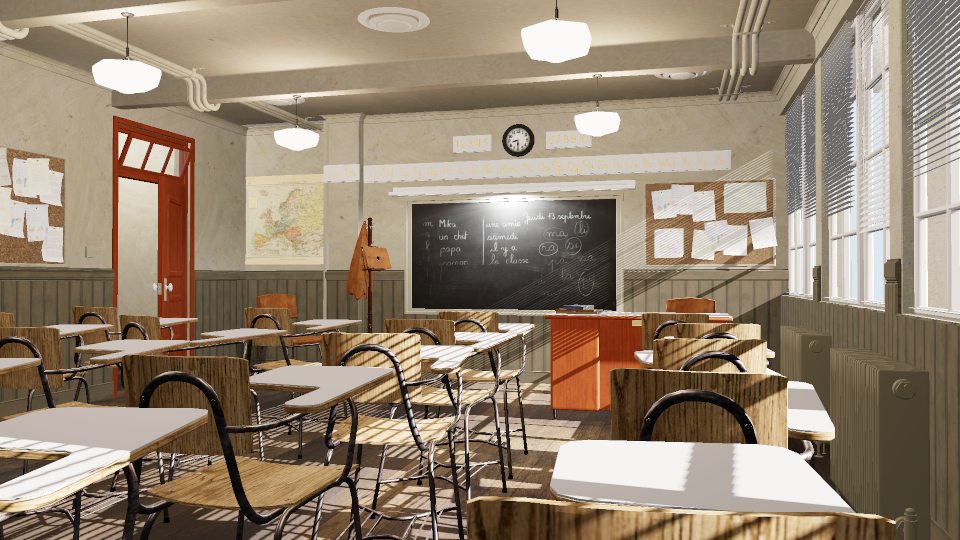
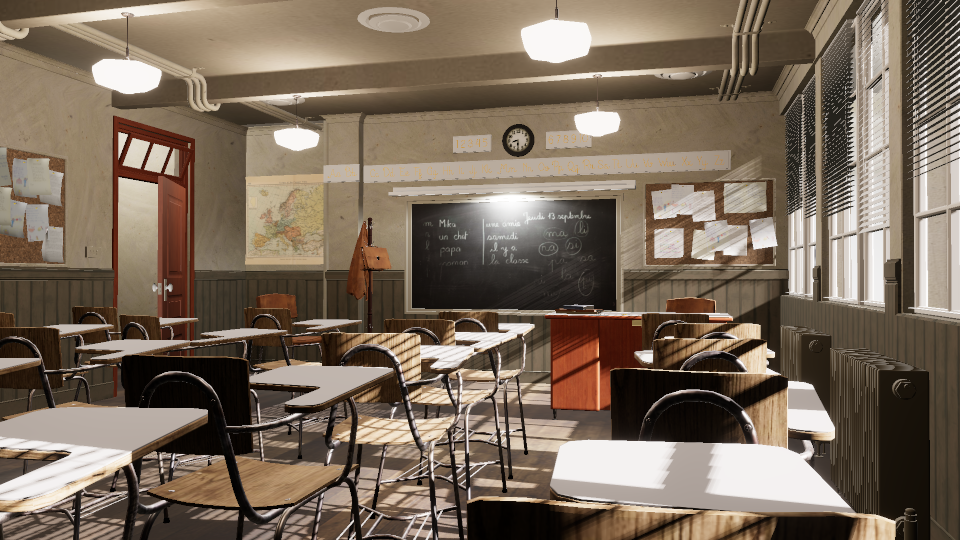
docs(scenes): render of the classroom in the pbr stack, measurements, list of missing techniques; screenshots

diff --git a/crates/pathon-pbr/tests/shaders.rs b/crates/pathon-pbr/tests/shaders.rs
@@ -54,7 +54,16 @@ fn forward_and_prepass_pipelines_exist_for_all_forty_eight_permutations_on_both_
         for variant in MaterialVariant::all() {
             for (split, shadows) in [(false, false), (true, false), (false, true), (true, true)] {
                 shaders
-                    .forward_pipeline(&device, ForwardKey { variant, split, shadows }, &layouts, textures)
+                    .forward_pipeline(
+                        &device,
+                        ForwardKey {
+                            variant,
+                            split,
+                            shadows,
+                        },
+                        &layouts,
+                        textures,
+                    )
                     .unwrap_or_else(|error| panic!("{variant:?} split {split} shadows {shadows}: {error}"));
             }
         }
@@ -107,7 +116,9 @@ fn the_shadow_permutation_adds_the_three_shadow_bindings_and_nothing_else() {
             shadows,
         }
         .shader_key();
-        let wgsl = shaders.wgsl(&key).unwrap_or_else(|error| panic!("shadows {shadows}: {error}"));
+        let wgsl = shaders
+            .wgsl(&key)
+            .unwrap_or_else(|error| panic!("shadows {shadows}: {error}"));
         let group = reflect_bind_groups(&wgsl, &["vs", "fs"]).expect("reflection").remove(0);
         group.entries.iter().map(|entry| entry.binding).collect::<Vec<_>>()
     };
@@ -116,7 +127,10 @@ fn the_shadow_permutation_adds_the_three_shadow_bindings_and_nothing_else() {
     let with = bindings(&mut shaders, true);
 
     assert_eq!(without, (0..SHADOW_FIRST_BINDING).collect::<Vec<_>>());
-    assert_eq!(with, (0..SHADOW_FIRST_BINDING + ShadowBindings::COUNT).collect::<Vec<_>>());
+    assert_eq!(
+        with,
+        (0..SHADOW_FIRST_BINDING + ShadowBindings::COUNT).collect::<Vec<_>>()
+    );
 }
 
 #[test]

diff --git a/examples/src/viewer/sky.rs b/examples/src/viewer/sky.rs
@@ -9,9 +9,8 @@ use pathon::api::resources::UniformRing;
 use pathon::api::{RecordCtx, RenderFeature, Slot};
 use pathon::rhi::{
     Access, BindGroupDesc, BindGroupEntry, BindGroupLayoutDesc, BindGroupLayoutEntry, BindGroupLayoutId,
-    BindingResource, BindingType, ColorAttachment, ColorTargetState,
-    DeviceApi, Format, PrimitiveState, RenderPassDesc, RenderPipelineDesc,
-    RenderPipelineId, RhiError, SamplerBindingType, ShaderModuleDesc, ShaderStage, ShaderStages,
+    BindingResource, BindingType, ColorAttachment, ColorTargetState, DeviceApi, Format, PrimitiveState, RenderPassDesc,
+    RenderPipelineDesc, RenderPipelineId, RhiError, SamplerBindingType, ShaderModuleDesc, ShaderStage, ShaderStages,
     TextureSampleType, TextureViewDimension,
 };
 use pathon_ibl::IblEnvironment;
@@ -148,7 +147,9 @@ impl RenderFeature for SkyFeature {
         let intensity = ctx
             .shared()
             .get::<ViewerSettings>()
-            .map_or(ViewerSettings::default().sky_intensity, |settings| settings.sky_intensity);
+            .map_or(ViewerSettings::default().sky_intensity, |settings| {
+                settings.sky_intensity
+            });
         if self.gpu.is_none() {
             self.gpu = Some(Gpu::new(ctx.device())?);
         }

diff --git a/crates/pathon-pbr/tests/golden_scene.rs b/crates/pathon-pbr/tests/golden_scene.rs
@@ -12,10 +12,10 @@ use pathon_api::glam::{Affine3A, Quat, Vec3};
 use pathon_api::{Severity, Slot};
 use pathon_bindless::PathPreference;
 use pathon_ibl::{IblPack, IblSettings, IblSource, SyntheticSky};
+use pathon_mesh::GeometryPool;
 use pathon_pbr::{LightAssignment, PbrPack, PbrSettings};
 use pathon_post::{BloomSettings, ExposureMode, ExposureSettings, PostPack, PostSettings};
 use pathon_rhi::{Format, NullDevice};
-use pathon_mesh::GeometryPool;
 use pathon_scene::Light;
 use pathon_shadow::{DirectionalShadowLight, ShadowPack, ShadowScene, ShadowSettings};
 use support::Lcg;
@@ -313,7 +313,11 @@ mod gpu {
         let render = |shadowed: bool| -> Option<Vec<[f32; 4]>> {
             let mut readers = None;
             let mut harness = harness(test, SIZE, Format::Rgba8Unorm, |builder| {
-                let (builder, split) = configure_split(if shadowed { with_shadows(builder) } else { base_builder(builder) });
+                let (builder, split) = configure_split(if shadowed {
+                    with_shadows(builder)
+                } else {
+                    base_builder(builder)
+                });
                 readers = Some(split);
                 builder
             })?;

diff --git a/crates/pathon-pbr/src/lighting.rs b/crates/pathon-pbr/src/lighting.rs
@@ -381,7 +381,8 @@ fn frame_groups(
                 ];
                 entries.extend(IblBindings::starting_at(IBL_FIRST_BINDING).bind_group_entries(&bindings.environment));
                 if let Some((frame, map_view)) = bindings.shadows {
-                    entries.extend(ShadowBindings::starting_at(SHADOW_FIRST_BINDING).bind_group_entries(&frame, map_view));
+                    entries
+                        .extend(ShadowBindings::starting_at(SHADOW_FIRST_BINDING).bind_group_entries(&frame, map_view));
                 }
                 let group = pass.create_bind_group(&BindGroupDesc {
                     label: "pbr forward frame",

diff --git a/examples/tests/viewer_render.rs b/examples/tests/viewer_render.rs
@@ -18,7 +18,10 @@ fn render(lighting: LightingMode, sun_shadows: bool) -> Option<GoldenImage> {
     let request = ScreenshotRequest {
         width: SIZE,
         height: SIZE,
-        eye_and_target: Some((pathon::api::glam::Vec3::new(0.0, 0.0, 3.0), pathon::api::glam::Vec3::ZERO)),
+        eye_and_target: Some((
+            pathon::api::glam::Vec3::new(0.0, 0.0, 3.0),
+            pathon::api::glam::Vec3::ZERO,
+        )),
         vertical_fov_degrees: Some(60.0),
         sun_shadows,
         sky_intensity: Some(TEST_SKY_INTENSITY),

diff --git a/examples/src/viewer/bench.rs b/examples/src/viewer/bench.rs
@@ -147,7 +147,9 @@ pub fn run_benchmark(
 
     let sink = Arc::new(SumSink::default());
     let profiler = Profiler::builder().with_sink(Arc::<SumSink>::clone(&sink)).build();
-    session.renderer.set_frame_observer(Some(Arc::<Profiler>::clone(&profiler)));
+    session
+        .renderer
+        .set_frame_observer(Some(Arc::<Profiler>::clone(&profiler)));
     for _ in 0..PROFILED_FRAMES {
         session.render_input(&input).map_err(|error| error.to_string())?;
     }

diff --git a/examples/tests/viewer_null.rs b/examples/tests/viewer_null.rs
@@ -37,7 +37,10 @@ fn render_one_frame(lighting: LightingMode, texture_path: PathPreference) -> Vec
 
 #[test]
 fn the_pbr_stack_validates_with_bindless_textures() {
-    assert_eq!(render_one_frame(LightingMode::Pbr, PathPreference::Auto), Vec::<String>::new());
+    assert_eq!(
+        render_one_frame(LightingMode::Pbr, PathPreference::Auto),
+        Vec::<String>::new()
+    );
 }
 
 #[test]

diff --git a/examples/src/viewer/upload.rs b/examples/src/viewer/upload.rs
@@ -665,7 +665,9 @@ fn upload_pbr(
         })
         .collect::<Result<_, _>>()?;
     let BinderTextures {
-        cache, binder: texture_binder, ..
+        cache,
+        binder: texture_binder,
+        ..
     } = textures;
     let TextureCache {
         mut loader,

diff --git a/docs/scenes.md b/docs/scenes.md
@@ -124,7 +124,7 @@ Sprawdzone przy tworzeniu (22.11.2026, Blender 5.2.2):
 - Ponowny import `.glb` do Blendera (`import_scene.gltf`): 956 obiektów (836 meshów, 107 empty, 10 świateł, 3 kamery), 28 obrazów; render Workbench z `renderCam` pokazuje poprawną klasę (tablica z napisami, tablice korkowe, mapa, drzwi, ławki z teksturami, podłoga).
 - Własne sprawdzenia JSON-a glb: brak prymitywów z teksturą bez `TEXCOORD_0`, 77 materiałów, 2 z `BLEND`.
 
-Render w pathon: patrz [Render w pathon](#render-w-pathon) niżej.
+Render w pathon: patrz [Render w pathon (pbr)](#render-w-pathon-pbr) niżej.
 
 Walidator uruchomisz tak:
 
@@ -143,11 +143,15 @@ PATHON_TEST_SCENE=test-assets/classroom/classroom-lite.glb cargo test -p pathon-
 
 Do codziennych testów i Chrome używaj `classroom-lite.glb` (17,9 MB), do pomiarów wydajności `classroom.glb`. Do IBL wskaż `test-assets/classroom/env/Garage.hdr` (M4-06). Główna kamera i światła są w `*.scene.json`; loader bierze z niego tylko flagę `main` kamery (nazwa obiektu = nazwa węzła glTF), reszta idzie z samego `.glb`.
 
-## Render w pathon
+## Render w pathon (pbr)
 
-`cargo run --release -p pathon-examples --bin gltf_viewer` (opis, sterowanie i tryb `--screenshot` w [przykładach](examples.md#viewer-sceny-testowej-gltf_viewer)). Sprawdzone 22.11.2026 na Windows, Vulkan, AMD Radeon RX 9070 XT, w obu wariantach sceny: wczytanie `.glb` ok. 0,1-0,5 s (obrazy dekodowane równolegle), wgranie na GPU poniżej sekundy, w oknie 1280×720 ok. 70 klatek na sekundę przy włączonym vsync (`classroom.glb`: 862 instancje, 606 tys. trójkątów po rozwinięciu instancji, 78 materiałów, 10 świateł).
+`cargo run --release -p pathon-examples --bin gltf_viewer` (opis, sterowanie, flagi i tryby `--screenshot` i `--bench` w [przykładach](examples.md#viewer-sceny-testowej-gltf_viewer)). Od 25.11.2026 viewer oświetla scenę stosem paczek pathon: `IblPack` (środowisko `env/Garage.hdr`, czytnik Radiance w `examples/src/radiance.rs`), `ShadowPack` (cztery kaskady słońca, PCF 3×3, mapy 2048², zasięg 40 m), `PbrPack` (prepass, klastry świateł, materiały standardowe, tekstury przez `TextureBinder`: bindless, gdy urządzenie je ma, inaczej grupa na materiał), `PostPack` (ekspozycja, bloom, ACES) i własna cecha viewera z tłem okien (`PbrPack` nieba nie rysuje). Dawne oświetlenie z M4-10 zostaje pod `--simple` do porównań (`classroom-lite-renderCam-simple.png`).
 
-Zrzuty referencyjne (960×540, ekspozycja domyślna viewera, `--supersample 2`) leżą w `docs/scenes/`:
+Sprawdzone 25.11.2026 na Windows, Vulkan, AMD Radeon RX 9070 XT, w obu wariantach sceny (`classroom.glb`: 862 instancje, 606 tys. trójkątów, 78 materiałów, 28 tekstur, 10 świateł). Wczytanie `.glb` 0,1-0,5 s, wgranie na GPU 0,1-0,2 s, w oknie 1280×720 75 klatek na sekundę przy vsync (limit monitora).
+
+### Zrzuty
+
+Zrzuty referencyjne (960×540, ekspozycja domyślna, `--supersample 2`) leżą w `docs/scenes/`:
 
 | Plik | Co | Polecenie (`--size 960x540 --supersample 2`) |
 | --- | --- | --- |
@@ -155,16 +159,43 @@ Zrzuty referencyjne (960×540, ekspozycja domyślna viewera, `--supersample 2`) 
 | `classroom-lite-wide.png` | `pathon_wide` (14 mm) | `classroom-lite.glb --camera 1` |
 | `classroom-lite-reverse.png` | `pathon_reverse`, od strony tablicy | `classroom-lite.glb --camera 0` |
 | `classroom-renderCam.png` | kamera główna, wariant pełny | `classroom.glb --camera 2` |
+| `classroom-lite-renderCam-simple.png` | to samo co pierwszy, dawne oświetlenie | `classroom-lite.glb --camera 2 --simple` |
 
-Numer kamery to kolejność z pliku (log viewera ją wypisuje; w klasie: 0 `pathon_reverse`, 1 `pathon_wide`, 2 `renderCam`). Pliki są wygenerowane lokalnym wariantem sceny, której licencji nie potwierdzono do końca (patrz wyżej): zanim obrazy wyjdą poza repozytorium, trzeba to zrobić.
+Numer kamery to kolejność z pliku (log viewera ją wypisuje; w klasie: 0 `pathon_reverse`, 1 `pathon_wide`, 2 `renderCam`). Pliki są wygenerowane lokalnym wariantem sceny, której licencji nie potwierdzono do końca (patrz wyżej), a tło okien to `Garage.hdr` o nieznanej licencji: zanim obrazy wyjdą poza repozytorium, trzeba to sprawdzić.
 
-Co widać i co nie jest wierne (viewer to przejściowy zamiennik pbr, cieni, IBL i postu):
+### Co widać
 
-- **Zgadza się:** tablica z napisami, mapa, tablice korkowe, drzwi, ławki i krzesła z drewnem i metalem, żaluzje, kosz z siatki (blend z maski alfa) z kulkami papieru, lampy sufitowe jako emisja, plamy słońca na podłodze przez żaluzje (cień kierunkowy z mapy 4096²). Normalne, winding i odwrócenie Y są poprawne; lustrzane instancje (ujemny wyznacznik) nie mają odwróconych normalnych.
-- **Jasność:** ekspozycja 1/683 z tego opisu jest u Blendera przy transformacji Standard; z ACES (przybliżenie Narkowicza w shaderze viewera) obraz jest za ciemny, więc viewer startuje o jeden stopień wyżej (2/683). Klawisze `+` / `-` zmieniają ekspozycję, `--ev` w trybie zrzutu.
-- **Oświetlenie:** pętla po wszystkich 10 światłach bez cieni (poza słońcem) plus ambient półsferyczny 400 / 150 lx w miejsce IBL. Wypełnienie za oknem (213 437 cd) świeci też na powierzchnie, które w rzeczywistości zasłania ściana, a światła sufitowe nie rzucają cieni, więc kontakty (spód ławek) są jaśniejsze niż w Cyclesie.
-- **Okna:** światło dzienne to słońce, a tło okien to stały kolor nieba (brak portalu i IBL).
-- **Szkło** (`frostedGlass`, szkło zegara): `KHR_materials_transmission` jest rysowane jako blend z alfą `1 - 0,9 * transmission`, bez załamania.
-- **Materiały:** straty z tabeli wyżej (bump, korekcje koloru, atrybuty obiektu) są widoczne jako płaskie albo jednolite powierzchnie (np. skóra foteli). `KHR_texture_transform` dla normalnej i okluzji bierze transformację base color, bo crate `gltf` nie wystawia jej dla tych dwóch map.
-- **Alias:** okno nie ma MSAA (zrzuty wygładza `--supersample`).
+Co się zgadza:
 
+- Cień słońca przez żaluzje i okna daje ostre plamy na podłodze i ławkach bez acne i peter-panningu (sprawdzone 1:1 na zrzucie 1920×1080); ławki, krzesła, rury i oprawy rzucają poprawne cienie słońca, a wnętrze jest w większości w cieniu, jak w prawdziwej klasie.
+- Lampy sufitowe i zegar świecą (emisja × 683), szyby zegara i okien przepuszczają obraz; tablica, mapa, tablice korkowe, drzwi, kaloryfer mają materiały i tekstury, a okna widać na tle środowiska.
+- Ekspozycja stała 1/342 (2/683) daje obraz zbliżony do automatycznej (`--auto-exposure` wychodzi na +0 EV), ACES i Khronos Neutral (`--neutral`) różnią się tylko nasyceniem.
+- Obraz ze stosu pathon jest ciemniejszy i bardziej kontrastowy niż `--simple`, bo ambient nie jest już stały, a światło ze środowiska jest jedno i słabe (300).
+
+Co jest źle albo nie jest wierne (w kolejności wpływu na obraz, to samo jest wejściem do M5):
+
+1. **Brak oświetlenia pośredniego (GI) i widoczności nieba.** `IblPack` daje wnętrzu całe niebo z każdej strony, bo irradiancja nie zna ścian: przy `environment_intensity` 2000 sceny tracą cienie i robi się płasko jasno (`--environment-intensity 2000`), przy 0 jest ciemno i bez wypełnienia (`--environment-intensity 0`); 300 to ręcznie dobrany kompromis. Brak światła odbitego: plamy słońca nie rozjaśniają sufitu ani ścian, nic nie przejmuje koloru podłogi, wnętrze jest równo „płaskie” poza plamami. To największa różnica względem Cyclesa.
+2. **Brak okluzji otoczenia.** Poza mapami AO z tekstur (`occlusionTexture`) nic nie przyciemnia styków: spody ławek, narożniki, miejsce za kaloryferem, oparcia przy ścianie. SSAO / GTAO (M5-02) i okluzja IBL (bent normals) mają tu największy zysk za najmniejszy koszt.
+3. **Cienie tylko słońca.** Dziewięć świateł punktowych i reflektorów (sześć lamp sufitowych, lampa korytarza, podświetlenie tablicy, wypełnienie za oknem) nie rzuca cieni: światło wypełniające za oknem (213 437 cd) świeci też na zewnętrzną stronę ściany (widać z kamery na zewnątrz, `--eye 9,1.6,0 --target 0,1.2,0`), a lampy nie cieniują spodów ławek. Potrzebne: cienie reflektorów i punktowych (kostka), ewentualnie cień kontaktowy.
+4. **Brak odbić.** Podłoga (lakierowane drewno), szyby, tablica i metalowe nogi odbijają wyłącznie `Garage.hdr` (zapisany w IBL jako środowisko hali, które nie ma nic wspólnego z klasą), nie salę, okna ani lampy. Potrzebne: SSR i/lub sonda odbić dla wnętrza, w obu przypadkach z lokalną korektą parallax; do tego prawdziwe środowisko (niebo) w oknach zamiast garażu.
+5. **Aliasing specular i filtrowanie tekstur.** Słońce na wąskich żaluzjach daje iskrzące punkty (`classroom-lite-wide.png`, prawa strona), bo shader nie ma AA specular (geometrycznego ani przez normalne), a `TextureBinder` ma presety bez anizotropii (viewer `--simple` miał 8×), więc podłoga i ściany pod małym kątem są bardziej rozmyte. Okno nie ma MSAA ani TAA (zrzuty wygładza `--supersample`).
+6. **Szkło bez załamania.** `transmission` jest blendem z 10% krycia (hack hosta w `upload.rs`): bez załamania, bez tłumienia i bez rozmycia przez matowe szkło (`frostedGlass`). Szkło widziane przed niebem jest zastępowane tłem (cecha nieba pisze wszystko, co ma głębię 0).
+7. **Brak volumetryki.** Słupy światła w oknach i przy tablicy (`_volumeLight`, `_dustParticules`) nie są eksportowane, a stos ich nie ma.
+8. **Straty materiałów** z tabeli wyżej (bump, korekcje koloru, atrybuty obiektu, brak `normalTexture` tam, gdzie był bump) są widoczne jako płaskie ściany i jednolite siedziska; to ograniczenie eksportu, nie renderera.
+9. **Niebo jest cechą viewera**, nie paczką: `PbrPack` nie rysuje tła, więc viewer dorzuca `SkyFeature` (pass po `pbr lighting`). Docelowo potrzebna paczka nieba (`pathon-sky`, wymieniona w [pathon-ibl](crates/pathon-ibl.md)) i światło słońca z jej modelu zamiast ręcznych `sky_intensity` i `environment_intensity`.
+
+### Wydajność
+
+RX 9070 XT, Vulkan, `--bench 300` (render offscreen, `Rgba8UnormSrgb`, kamera `renderCam`, bloom włączony, cienie włączone). „Ściana” to czas na klatkę przy zajętym GPU (przepustowość), „CPU” to czas `render_frame` (nagrywanie i zgłoszenie), pasy GPU z `pathon-profile` (timestampy na granicach passów, średnia z 60 klatek).
+
+| Scena i rozmiar | Światła / klastry | Ściana | CPU | Suma passów GPU |
+| --- | --- | ---: | ---: | ---: |
+| `classroom.glb` 1280×720 | 10 / 86 400 | 2,06 ms (484 fps) | 2,05 ms | 2,17 ms |
+| `classroom.glb` 1920×1080 | 10 / 195 840 | 2,30 ms (434 fps) | 2,14 ms | 2,13 ms |
+| `classroom-lite.glb` 1280×720 | 10 / 86 400 | 1,90 ms (526 fps) | 1,87 ms | 2,20 ms |
+| `classroom.glb` 1920×1080, `--per-material` | 10 / 195 840 | 2,20 ms (454 fps) | 2,05 ms | 2,56 ms |
+| `classroom.glb` 1920×1080, `--simple` | 10 / — | 1,78 ms (563 fps) | 1,77 ms | 2,40 ms |
+
+Passy GPU (`classroom.glb` 1920×1080, ms): prepass 0,81, forward 0,74, cień (4 kaskady) 0,12, klastry świateł 0,05, przezroczyste 0,04, niebo 0,03, bloom razem ok. 0,25 (prefiltr 0,12, reszta poniżej 0,03), ekspozycja 0,002, tonemapping 0,06. Prepass kosztuje tyle co kolor, bo każda z 862 instancji to osobne rysowanie bez cullingu (M4-11); GPU jest tu mało obciążone, więc czas GPU prawie nie zależy od rozdzielczości, a ścianę wyznacza CPU. W oknie ta scena trzyma 75 fps (vsync).
+
+Dwa błędy `pathon-pbr` znalezione i naprawione przy tym pomiarze: (1) refleksja układu grupy 0 (parsowanie WGSL naga) działała co klatkę dla każdej permutacji, co dawało 14 ms CPU na klatkę zamiast 2 (cache w `PbrShaders`); (2) lista indeksów klastrów miała stałą pojemność 2²⁰ wpisów, a scena z 195 840 klastrami i światłami o zasięgu pokrywającym całą salę potrzebuje ponad 2 mln: przepełnienie skracało listy losowych klastrów i dawało poziome pasy bez światła (każdy kafel 16 px). Pojemność liczy się teraz jako `min(max_light_indices, klastry × światła)` (domyślny limit 2²⁴), więc przepełnienie nie jest możliwe bez jawnego, mniejszego limitu. Test klastrów kontra brute force tego nie łapał, bo sceny testowe mają mało klastrów; do M5 warto dodać `L0005` jako rzeczywistą diagnostykę (licznik przepełnienia jest liczony, ale nikt go nie czyta).

diff --git a/docs/examples.md b/docs/examples.md
@@ -19,7 +19,7 @@ Crate `examples/` gra rolę hosta, więc wolno mu używać wgpu i winit wprost (
 | `bindless_scene` | M4-04 | — | podłoga, dwie kule i sześcian z trzema materiałami i sześcioma teksturami; tekstury idą przez `binding_array` (urządzenie z tablicami) albo bind group per materiał (Web); `--bindless` i `--per-material` wymuszają ścieżkę (oba obrazy są identyczne), argument to plik PNG (domyślnie `bindless_scene.png`), `cargo run -p pathon-examples --bin bindless_scene` ([pathon-bindless](crates/pathon-bindless.md)); bez rendera i okna, na samym `Device` |
 | `pbr_scene` | M4-05 | — | podłoga, kule ze złota i czerwonego plastiku, słońce, dwa światła punktowe i reflektor, środowisko z syntetycznego nieba: `PbrPack` + `IblPack` + `PostPack` na offscreenie, wynik do PNG, `cargo run -p pathon-examples --bin pbr_scene -- wynik.png` ([pathon-pbr](crates/pathon-pbr.md)); siatki, tablica materiałów i migawka sceny idą do `Shared` |
 | `ibl_spheres` | M4-06 | — | siatka 5 × 3 kul (dielektryk, złoto, srebro; chropowatość rośnie w kolumnach) oświetlona wyłącznie środowiskiem: niebo syntetyczne z słońcem albo plik Radiance `.hdr` (drugi argument); `IblBuilder` liczy prefiltr, irradiancję i LUT BRDF w compute raz, shader woła `ibl_evaluate` obok `load_surface`; wynik do PNG, `cargo run -p pathon-examples --bin ibl_spheres -- wynik.png [plik.hdr]` ([pathon-ibl](crates/pathon-ibl.md)); bez rendera i okna, na samym `Device` |
-| `gltf_viewer` | M4-10 | C | scena testowa glTF (classroom z [scenes.md](scenes.md)) w oknie z kamerą swobodną albo jedna klatka offscreen do PNG (`--screenshot`); loader glTF, wgranie do `pathon-mesh` / `-texture` / `-material` / `-scene` i własna paczka rysująca (cień słońca, forward ze światłami punktowymi, tonemapping ACES); opis niżej |
+| `gltf_viewer` | M4-10 | C | scena testowa glTF (classroom z [scenes.md](scenes.md)) w oknie z kamerą swobodną albo jedna klatka offscreen do PNG (`--screenshot`); loader glTF, wgranie do `pathon-mesh` / `-texture` / `-material` / `-scene` i oświetlenie przez paczki pathon (`IblPack`, `ShadowPack`, `PbrPack`, `PostPack`) albo `--simple`; opis niżej |
 | `shadow_scene` | M4-07 | — | podłoga, stos sześcianów, kula, płaszczyzna skierowana do słońca i odległy sześcian oświetlone jednym światłem kierunkowym: `ShadowPack` renderuje do czterech kaskad, shader liczy `N·L × shadow_factor_directional`; w logu podział kaskad i rozmiar teksela, wynik do PNG, `cargo run -p pathon-examples --bin shadow_scene -- wynik.png [hard\|pcf3\|pcf5] [stable\|focused] [kaskady]` ([pathon-shadow](crates/pathon-shadow.md)); offscreen, bez okna; scena i shading te same co w teście golden |
 | `host_foreign_device` | M2-19 | B | host tworzy urządzenie i swapchain; pathon przyjmuje urządzenie, renderuje do tekstury hosta, host kopiuje ją na ekran |
 
@@ -46,16 +46,18 @@ Loader glTF 2.0 (`examples/src/gltf_loader*`, crate `gltf` plus `png` i `zune-jp
 | `KHR_lights_punctual` | `pathon_scene::Light`: lux dla kierunkowych, kandele × 4π → lumeny dla punktowych i reflektorów |
 | `<plik>.scene.json` obok pliku | tylko flaga `main` kamery (domyślna kamera) |
 
-`viewer::upload` wgrywa to przez crate'y pathon: meshe do `GeometryPool`, obrazy przez `TextureLoader` (widok sRGB dla kolorów, mipmapy w compute), materiały do `MaterialTable`, instancje, światła i kamery do `Scene::extract`. Paczka `ViewerPack` czyta migawkę sceny z `Shared` i rysuje trzema passami: cień słońca (mapa 4096², PCF 3×3, kierunkowe światło jest jedno), forward (`material::standard::{load_surface, evaluate}` dla każdego światła sceny, ambient półsferyczny w miejsce IBL, materiały przezroczyste i szkło sortowane od tyłu z blendem premultiplied) i tonemapping ACES do celu. Ekspozycja domyślnie 1/683 ([scenes.md](scenes.md)), emisja materiałów mnożona przez 683 (Blender podaje ją w watach, światła w lumenach).
+`viewer::upload` wgrywa to przez crate'y pathon: meshe do `GeometryPool`, obrazy przez `TextureLoader` (widok sRGB dla kolorów, mipmapy w compute), tekstury do `TextureBinder` (bindless albo bind group na materiał, wg `Caps`; log pisze wybraną ścieżkę), materiały do `MaterialTable`, instancje, światła i kamery do `Scene::extract`. `KHR_texture_transform` binder nie zna, więc transformację UV materiału (z base color) viewer wypieka w UV meshy; emisję mnoży przez 683 (Blender podaje ją w watach, światła w lumenach), a szkłu (`transmission`) zostawia 10% krycia, bo `PbrPack` nie ma załamania.
 
-**Tymczasowe elementy**, które zastępują kolejne zadania: tekstury przez bind group na materiał (hook `texture_source`, profil „Web”; M4-04 podstawi `binding_array` na Desktopie), ambient zamiast IBL (M4-06), jeden cień słońca zamiast kaskad (M4-07), tonemapping w shaderze viewera (M4-09), forward ze światłami w pętli (M4-05 daje klastry). Szkło (`transmission`) jest rysowane jako blend, bez załamania.
+`viewer::stack` składa renderer z paczek tak, jak zrobiłby to własny silnik: `IblPack` (środowisko z `env/Garage.hdr` obok sceny przez czytnik Radiance, bez pliku syntetyczne niebo), `ShadowPack` (kaskady słońca), `PbrPack` (prepass, klastry świateł, materiały standardowe; wszystkie światła sceny w lux i kandelach), `SkyFeature` z `viewer::sky` (tło okien z tego samego środowiska; `PbrPack` nieba nie rysuje) i `PostPack` (ekspozycja stała 1/342 albo automatyczna, bloom, tonemapping ACES albo Neutral). Per klatkę viewer przepisuje swoje ustawienia do `PbrSettings`, `ShadowScene` i `PostSettings`. `--simple` zostawia dawną paczkę `SimplePack` (`viewer::simple`: jedna cecha, cień 4096², forward z pętlą po światłach, ambient półsferyczny, ACES w shaderze) do porównań.
+
+Środowisko jest dodatkiem pathon (świat oryginału jest czarny), a `environment_intensity` (domyślnie 300) i `sky_intensity` (6000) to jedyne pokrętła skali: jednostki HDR to nie lux, a oświetlenie ze środowiska nie widzi ścian, więc wnętrze dostaje całe niebo (patrz [scenes.md](scenes.md#render-w-pathon-pbr)).
 
 ```sh
 cargo run --release -p pathon-examples --bin gltf_viewer -- test-assets/classroom/classroom-lite.glb
 PATHON_TEST_SCENE=test-assets/classroom/classroom.glb cargo run --release -p pathon-examples --bin gltf_viewer
 ```
 
-Sterowanie: WASD albo strzałki (ruch), Q / E (dół, góra), Shift (szybko), przeciągnięcie myszą (rozglądanie), kółko (prędkość), 1–9 (kamery z pliku), `+` / `-` (ekspozycja o pół stopnia), `[` / `]` (ambient), T (cień słońca), I (stan do logu), Esc (koniec).
+Sterowanie: WASD albo strzałki (ruch), Q / E (dół, góra), Shift (szybko), przeciągnięcie myszą (rozglądanie), kółko (prędkość), 1–9 (kamery z pliku), `+` / `-` (ekspozycja o pół stopnia), `X` (ekspozycja automatyczna), `B` (bloom), `[` / `]` (środowisko; ambient w `--simple`), T (cień słońca), I (stan do logu), Esc (koniec).
 
 Tryb bez okna renderuje jedną klatkę offscreen (`Rgba8UnormSrgb`) i zapisuje PNG; tak powstały zrzuty w `docs/scenes/`:
 
@@ -63,7 +65,9 @@ Tryb bez okna renderuje jedną klatkę offscreen (`Rgba8UnormSrgb`) i zapisuje P
 cargo run --release -p pathon-examples --bin gltf_viewer -- test-assets/classroom/classroom-lite.glb   --screenshot docs/scenes/classroom-lite-0.png --camera 0 --size 960x540 --supersample 2
 ```
 
-`--camera N` to numer z logu (kolejność z pliku; `renderCam` jest główną), `--ev` przesuwa ekspozycję o stopnie, `--no-shadows` wyłącza cień słońca, `--supersample N` renderuje N razy większy obraz i uśrednia go w świetle liniowym.
+`--camera N` to numer z logu (kolejność z pliku; `renderCam` jest główną), `--ev` przesuwa ekspozycję o stopnie, `--no-shadows` wyłącza cień słońca, `--supersample N` renderuje N razy większy obraz i uśrednia go w świetle liniowym. Reszta: `--simple` (dawne oświetlenie), `--env plik.hdr` albo `--env none` (syntetyczne niebo), `--environment-intensity X`, `--sky-intensity X`, `--auto-exposure`, `--no-bloom`, `--neutral` (tonemapping Khronos PBR Neutral), `--brute-force-lights` (każde światło w każdym pikselu zamiast klastrów), `--per-material` (wymusza ścieżkę tekstur bez bindless), `--backend vulkan|dx12|metal`.
+
+`--bench N` nie rysuje do pliku: renderuje N klatek offscreen (domyślnie 960×540, `--size` zmienia), mierzy czas ściany na klatkę i czas CPU, a drugą serią z `pathon-profile` czasy GPU każdego passu; tabela idzie do logu (wyniki w [scenes.md](scenes.md#render-w-pathon-pbr)).
 
 Testy loadera (`cargo test -p pathon-examples --lib`) budują scenę syntetyczną w pamięci (trójkąt, materiał z teksturą PNG w base64, światło, kamera) i liczą zasoby; `PATHON_TEST_SCENE=…/classroom-lite.glb` dokłada test prawdziwej sceny (bez zmiennej test się pomija z komunikatem).
 

diff --git a/docs/plan-implementacji.md b/docs/plan-implementacji.md
@@ -315,6 +315,7 @@ Hosty (M6, M7) nie są na ścieżce minimalnej, ale ich szew jest: M2-19 i M4-20
 - [ ] **M4-09 · `pathon-post`** ★ — ekspozycja (slot `exposure`), bloom, tonemapping SDR. **Gotowe gdy:** golden image.
 - [ ] **M4-10 · Scena testowa** — loader glTF tylko w `examples/`. Dane: scena „classroom” wyeksportowana skryptem `tools/scenes/export_classroom.py`, opis i ograniczenia w [scenes.md](scenes.md). **Gotowe gdy:** scena ładuje się na 3 systemach i w Chrome.
   - **Stan 22.11.2026:** natywnie działa i jest sprawdzone wizualnie (Windows, Vulkan, RX 9070 XT): loader glTF w `examples/src/gltf_loader*` (crate `gltf`, `png`, `zune-jpeg`, tylko w `examples/`, `cargo xtask deps-check` zielone), wgranie przez `pathon-mesh` / `-texture` / `-material` / `-scene` (`examples/src/viewer/upload.rs`), własna paczka viewera (cień słońca, forward ze wszystkimi światłami sceny, tonemapping ACES; zamienniki pbr, cieni, IBL i postu z M4-05..M4-09) i `gltf_viewer` w oknie albo `--screenshot` offscreen; zrzuty referencyjne `classroom` i `classroom-lite` w `docs/scenes/`, opis w [scenes.md](scenes.md#render-w-pathon) i [examples.md](examples.md#viewer-sceny-testowej-gltf_viewer). Testy: scena syntetyczna w pamięci (`cargo test -p pathon-examples --lib`), test prawdziwej sceny z `PATHON_TEST_SCENE` (lite przechodzi) i `examples/tests/viewer_render.rs` (cały tor na GPU; w jobach `gpu` i `gpu-metal` przez `--workspace --all-features`). Przy okazji poprawka w `pathon-rhi-wgpu`: widok w innym formacie (sRGB tekstury z `STORAGE`) dostaje użycie bez `STORAGE_BINDING`.
+  - **Stan 25.11.2026 (viewer na stosie pbr):** `gltf_viewer` oświetla scenę przez `IblPack` (Garage.hdr), `ShadowPack`, `PbrPack` (bindless albo grupa na materiał wg `Caps`) i `PostPack`; dawne oświetlenie pod `--simple`; `--bench` mierzy klatkę i passy GPU. `pathon-pbr` czyta kaskady cieni (permutacja `shadows`, `pathon-shadow` jest teraz `pack-lib`, [ADR-0041](adr/0041-pack-lib.md)). Naprawione w pbr: reflekcja układów co klatkę (14 → 2 ms CPU) i pojemność listy klastrów. Pomiary, zrzuty i uporządkowana lista braków obrazu (GI, AO, cienie punktowe, odbicia, AA specular, szkło) w [scenes.md](scenes.md#render-w-pathon-pbr): wejście do M5.
   - **Zostaje (dlatego bez odhaczenia):** (1) **Linux i macOS** — viewer i `viewer_render` ruszą w CI na lavapipe i Metalu dopiero w pierwszym przebiegu; classroom jest poza repozytorium (licencja do potwierdzenia, [scenes.md](scenes.md)), więc CI sprawdza scenę syntetyczną. Kolejny krok: po potwierdzeniu licencji CC0 wystawić `classroom-lite.glb` (17,9 MB) jako asset wydania, pobierać go w jobie z sumą kontrolną i robić `gltf_viewer --screenshot` z porównaniem do golden image (`assert_golden`, M4-20). (2) **Chrome** — viewer nie jest zbudowany na wasm. Plan: osobny cel `examples/web-viewer` (wasm-bindgen) obok `examples/web`; `load_slice`, `upload`, `pack` i shadery są już bez zależności natywnych (obrazy dekodowane po kolei na wasm, tekstury przez bind group na materiał, czyli profil „Web”, mieszczą się w domyślnych limitach WebGPU: 2 grupy, 6 tekstur i 3 bufory storage na etap, `Rgba16Float` z blendem). Do zrobienia: fetch pliku (`web-sys` `Request`/`Response` → `Vec<u8>`), `build_async` i asynchroniczny start `Session` w `App` (wzór: `pathon/src/runtime/web.rs`), zegar z `performance.now()` zamiast `std::time::Instant` (panikuje na wasm), wyjęcie `screenshot` (wymaga `read_buffer`) pod `cfg(not(wasm32))`, zwolnienie obrazów CPU po wgraniu (limit pamięci), sprawdzenie w Chrome skryptem w stylu `examples/web/verify.cjs` (kolor środka obrazu i brak błędów konsoli) na `classroom-lite.glb` serwowanym lokalnie. Szacunek: dzień pracy, bez zmian w rdzeniu.
 - [ ] **M4-11 · Culling** ★ — frustum na CPU; na Desktop culling na GPU + indirect (`MULTI_DRAW_INDIRECT_COUNT` na DX12 i Vulkanie; na Metalu wariant bez count). Dołożyć komendy indirect (`DrawIndirect`, `DispatchIndirect`, `MultiDraw…`, `…Count`; limit 32 B, powtórzyć benchmark ADR-0009), patrz [spike-ash.md](spike-ash.md). **Gotowe gdy:** liczba draw calli spada w pomiarze, golden images bez zmian.
   - **Stan 22.11.2026:** część RHI zrobiona ([ADR-0033](adr/0033-komendy-indirect.md)): komendy `DrawIndirect`, `DispatchIndirect`, `MultiDraw…` i `…Count`, typy argumentów, walidacja w `rhi-null` (R0114), test GPU (compute zapisuje argumenty, draw je czyta) na Vulkanie i DX12, benchmark ADR-0009 powtórzony. Zostaje culling w paczce (frustum CPU, culling GPU).

diff --git a/docs/crates/pathon-pbr.md b/docs/crates/pathon-pbr.md
@@ -57,7 +57,7 @@ Dekodowanie normalnych i referencje CPU (`oct_encode`, `oct_decode`, `depth_pyra
 
 ## Klastry świateł
 
-Siatka kafli (`tile_size` px, potęga dwójki) razy wykładnicze warstwy głębi (`slices` od `near` do `far`). Compute (`cluster.wesl`): jeden wątek na klaster liczy jego AABB w przestrzeni widoku (perspektywa i ortografia), zlicza światła, których sfera zasięgu go dotyka, rezerwuje miejsce na liście jednym `atomicAdd` na `u32` i zapisuje indeksy w kolejności świateł. Nie ma atomików 64-bit, więc ten sam shader działa na Web. Światła kierunkowe nie są klastrowane. Zasięg punktowego i reflektora to `Light::influence_radius`, a tłumienie ma okno `saturate(1 − (d/r)⁴)²` (Karis 2013), więc światło znika dokładnie na zasięgu i klaster nic nie zmienia w obrazie. Przepełnienie wspólnej listy (`max_light_indices`) skraca listy późniejszych klastrów (`L0005`).
+Siatka kafli (`tile_size` px, potęga dwójki) razy wykładnicze warstwy głębi (`slices` od `near` do `far`). Compute (`cluster.wesl`): jeden wątek na klaster liczy jego AABB w przestrzeni widoku (perspektywa i ortografia), zlicza światła, których sfera zasięgu go dotyka, rezerwuje miejsce na liście jednym `atomicAdd` na `u32` i zapisuje indeksy w kolejności świateł. Nie ma atomików 64-bit, więc ten sam shader działa na Web. Światła kierunkowe nie są klastrowane. Zasięg punktowego i reflektora to `Light::influence_radius`, a tłumienie ma okno `saturate(1 − (d/r)⁴)²` (Karis 2013), więc światło znika dokładnie na zasięgu i klaster nic nie zmienia w obrazie. Lista jest tak duża, jak trzeba: `min(max_light_indices, klastry × światła)` wpisów (domyślny limit 2²⁴), więc przepełnienie (`L0005`) wymaga jawnie mniejszego limitu; wtedy skraca listy losowych klastrów, bo kolejność rezerwacji zależy od planowania wątków.
 
 `LightAssignment::BruteForce` testuje w kolorze każde światło i służy do sprawdzania klastrów.
 
@@ -78,6 +78,7 @@ Cieniowane światło to jedno światło kierunkowe, które `ShadowPack` rysuje d
 - Brak cullingu: rysowane są wszystkie widoczne instancje, jedno wywołanie na instancję (M4-11).
 - `CullMode::None`: podwójna strona rozstrzyga się przez `front_facing`; transformacje lustrzane odwracają znak stycznej niepoprawnie.
 - Wgrywanie instancji i świateł co klatkę w całości (przyrostowe z `changes()` zostaje na M4-11).
+- Układy grupy 0 są reflektowane raz na permutację (cache w `PbrShaders`); wcześniej parsowanie WGSL szło co klatkę (14 ms CPU na scenie z 862 instancjami).
 - Koszt przypisania to `O(klastry × światła)`; hierarchiczne przycinanie do zmierzenia w M4-17.
 - Brak AA specular, okluzji z bent normals, cieni punktowych i reflektorów, nieba, przezroczystości z transmisją (M4-15) i MSAA (M4-19).
 
